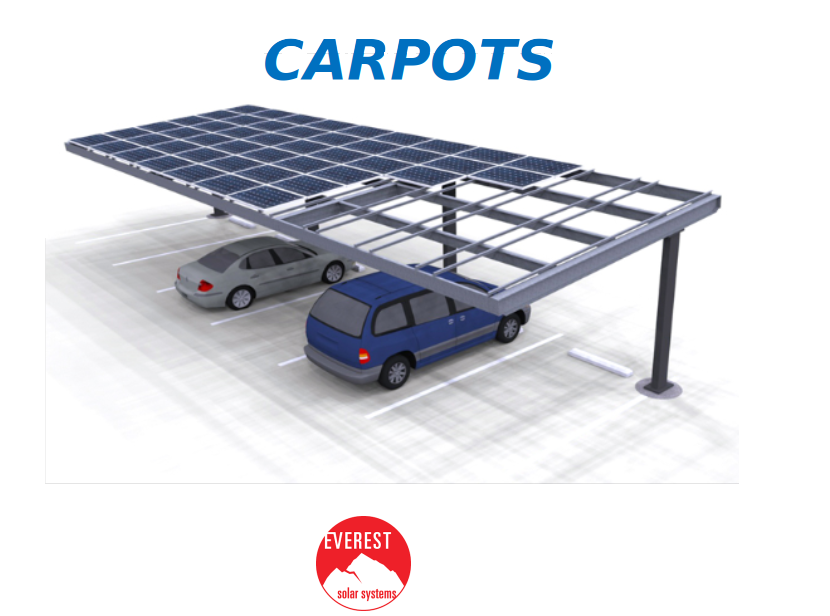
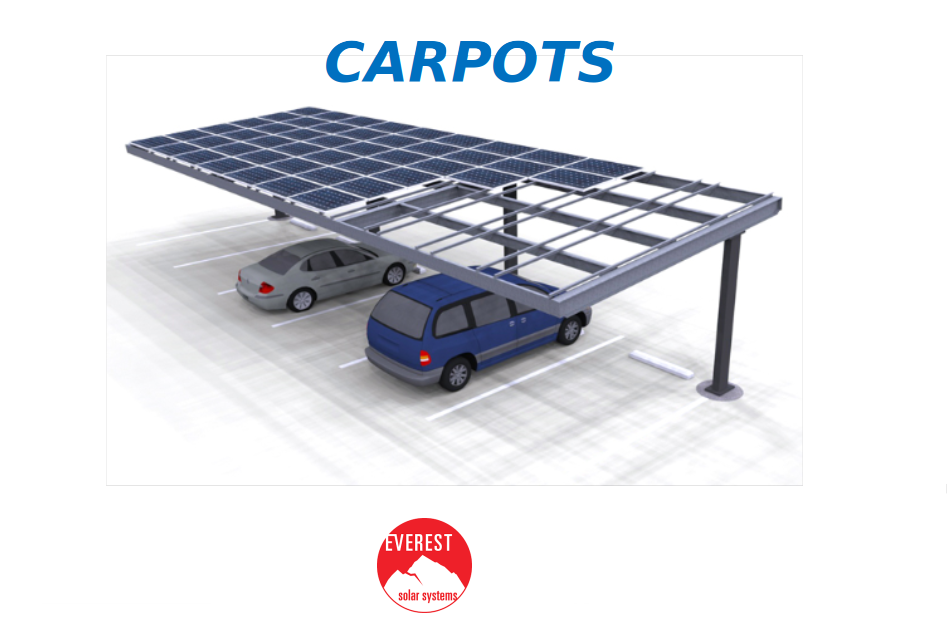
REV 11

Changed region(s): [[0.0602, 0.0617, 0.8735, 0.7094], [0.3614, 0.8019, 0.512, 1.0], [0.6024, 0.6786, 0.6325, 0.7094]]

diff --git a/src/views/partials/slider.html b/src/views/partials/slider.html
@@ -8,31 +8,31 @@
   </ul>
   <div class="carousel-inner">
     <div class="carousel-item active">
-      <center><img class="img-fluid" src="img/minisplits.png" alt="Los Angeles" width="75%" height="500"></center>
+      <center><img class="img-fluid" src="img/minisplits.png" alt="Los Angeles" width="50%" height="100"></center>
          
     </div>
     <div class="carousel-item">
-	<center><img class="img-fluid" src="img/sistemas3.png" width="75%" height="500"></center>
+	<center><img class="img-fluid" src="img/sistemas3.png" width="50%" height="100"></center>
 	
   
     </div>
     <div class="carousel-item">
-      <center><img class="img-fluid"  src="img/sistdiv.png" alt="Chicago" width="75%" height="500"></center>
+      <center><img class="img-fluid"  src="img/sistdiv.png" alt="Chicago" width="50%" height="500"></center>
         
     </div>
 
     <div class="carousel-item">
-      <center><img class="img-fluid"  src="img/sist5.png" alt="New York" width="75%" height="500"></center>
+      <center><img class="img-fluid"  src="img/sist5.png" alt="New York" width="50%" height="500"></center>
         
       
     </div>
     <div class="carousel-item">
-        <center><img class="img-fluid"  src="img/hotelsist.png" width="60%" height="500px"></center>
+        <center><img class="img-fluid"  src="img/hotelsist.png" width="50%" height="500px"></center>
         
       </div>
 
       <div class="carousel-item">
-        <center><img class="img-fluid"  src="img/watersource.png" width="60%" height="500px"></center>
+        <center><img class="img-fluid"  src="img/watersource.png" width="50%" height="500px"></center>
         
       </div>
 
@@ -40,65 +40,69 @@
         <center><img class="img-fluid"  src="img/unidcond.png" width="60%" height="500px"></center>
         
       </div>
-      <div class="img class="img-fluid"  src="img/manejad.png" width="70%" height="500px"></center>
+      <div class="img class="img-fluid"  src="img/manejad.png" width="50%" height="500px"></center>
         
       </div>
       <div class="carousel-item">
-        <center><img img class="img-fluid" src="img/minichiler.png" width="60%" height="500px"></center>
+        <center><img img class="img-fluid" src="img/minichiler.png" width="50%" height="500px"></center>
         
       </div>
       <div class="carousel-item">
-        <center><img class="img-fluid"  src="img/fotochillers.png" width="60%" height="500px"></center>
+        <center><img class="img-fluid"  src="img/fotochillers.png" width="50%" height="500px"></center>
         
       </div>
       <div class="carousel-item">
-        <center><img class="img-fluid"  src="img/vrf.png" width="60%" height="500px"></center>
+        <center><img class="img-fluid"  src="img/vrf.png" width="50%" height="500px"></center>
         
       </div>
     
     <div class="carousel-item">
-      <center><img class="img-fluid"  src="img/airevap.png" width="60%" height="500px"></center>
+      <center><img class="img-fluid"  src="img/airevap.png" width="50%" height="500px"></center>
       
     </div>
     <div class="carousel-item">
-      <center><img class="img-fluid"  src="img/boilers.png" width="60%" height="500px"></center>
+      <center><img class="img-fluid"  src="img/boilers.png" width="50%" height="500px"></center>
       
     </div>
     <div class="carousel-item">
-      <center><img class="img-fluid"  src="img/presuri.png" width="60%" height="500px"></center>
+      <center><img class="img-fluid"  src="img/presuri.png" width="50%" height="500px"></center>
       
     </div>
     <div class="carousel-item">
-      <center><img class="img-fluid"  src="img/termoso.png" width="60%" height="500px"></center>
+      <center><img class="img-fluid"  src="img/termoso.png" width="50%" height="500px"></center>
       
     </div>
 
     <div class="carousel-item">
-      <center><img class="img-fluid"  src="img/pumpss.png" width="60%" height="500px"></center>
+      <center><img class="img-fluid"  src="img/pumpss.png" width="50%" height="500px"></center>
       
     </div>
     <div class="carousel-item">
-      <center><img class="img-fluid"  src="img/sistfot.png" width="60%" height="500px"></center>
+      <center><img class="img-fluid"  src="img/cuartoscong.png" width="50%" height="500px"></center>
       
     </div>
     <div class="carousel-item">
-      <center><img class="img-fluid"  src="img/carpots.png" width="60%" height="500px"></center>
+      <center><img class="img-fluid"  src="img/carpots.png" width="50%" height="500px"></center>
       
     </div>
     <div class="carousel-item">
-      <center><img class="img-fluid"  src="img/instele.png" width="60%" height="500px"></center>
+      <center><img class="img-fluid"  src="img/instele.png" width="50%" height="500px"></center>
       
     </div>
     <div class="carousel-item">
-      <center><img class="img-fluid"  src="img/ccms.png" width="60%" height="500px"></center>
+      <center><img class="img-fluid"  src="img/ccms.png" width="50%" height="500px"></center>
       
     </div>
     <div class="carousel-item">
-      <center><img class="img-fluid"  src="img/transform.png" width="60%" height="500px"></center>
+      <center><img class="img-fluid"  src="img/transform.png" width="50%" height="500px"></center>
       
     </div>
     <div class="carousel-item">
-      <center><img class="img-fluid"  src="img/ilum.png" width="60%" height="500px"></center>
+      <center><img class="img-fluid"  src="img/ilum.png" width="50%" height="500px"></center>
+      
+    </div>
+    <div class="carousel-item">
+      <center><img class="img-fluid"  src="img/sistfoto.png" width="50%" height="500px"></center>
       
     </div>
   </div>

diff --git a/src/views/partials/servicios.html b/src/views/partials/servicios.html
@@ -22,7 +22,7 @@
                     <a class="dropdown-item" href="#dropdown-item" >INSTALACIONES ELÉCTRICAS</a>
                     <a class="dropdown-item" href="#dropdown-item">MANTENIMIENTO A INSTALACIONES ELÉCTRICAS</a>
                     <a class="dropdown-item" href="#dropdown-item">TRANSFORMADORES DE BAJA TENSION</a>
-                    <a class="dropdown-item" href="#dropdown-item">TABLEROS ELÉCTRICOS DE CONTROL</a>
+                    <a class="dropdown-item" href="#dropdown-item">TABLEROS ELÉCTRICOS Y DE CONTROL</a>
                     <a class="dropdown-item" href="#dropdown-item">REUBICACIÓN MEDIDOR CFE</a>
                     <a class="dropdown-item" href="#dropdown-item">INSTALACIÓN 5TA TERMINAL</a>
                     <a class="dropdown-item" href="#dropdown-item">CAMBIO 110V A 220V</a>
